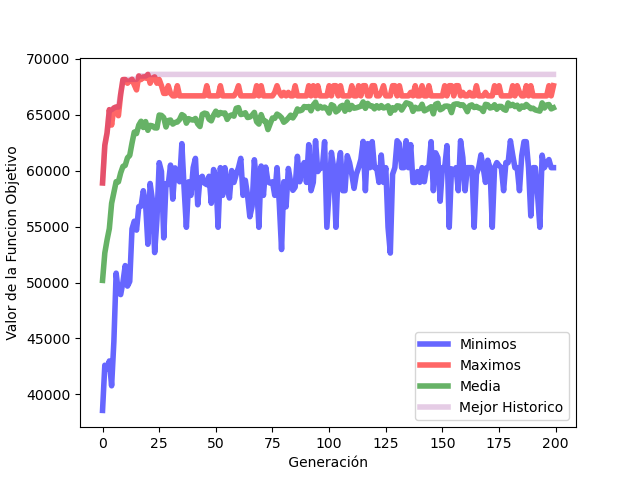
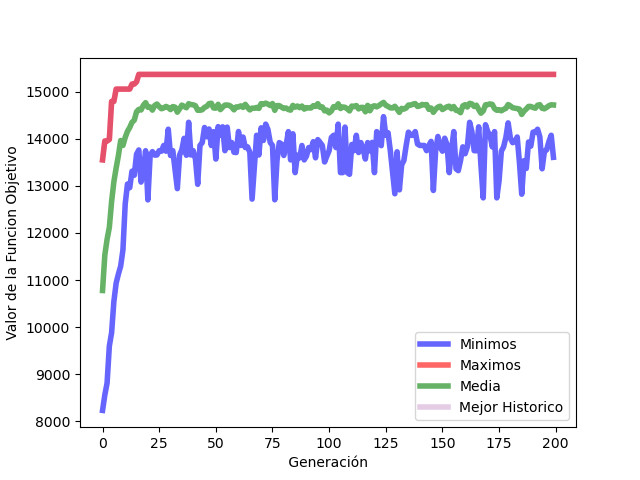
Corrección del valor de mutación

diff --git a/TP3/Resolucion/main.py b/TP3/Resolucion/main.py
@@ -210,7 +210,7 @@ def Genetico(provincias):
     cantMaximaGeneraciones = 200
     cantIndividuosEnPoblacion = 50
     p_crossover = 0.9
-    p_mutacion = 0.2
+    p_mutacion = 0.15
 
     # arreglos para las graficas.
     mostrarGraficas = True  # si no se quieren mostrar graficas de rendimiento poner en false.
@@ -288,6 +288,7 @@ def Genetico(provincias):
             mostrarGraficasEnPantalla(ejeX, minimos, maximos, medias, minHistorico)
 
         return datos.mapearRecorrido(MejorRecorrido + [MejorRecorrido[0]]), datos.CalculaDistanciaDeRecorrido(MejorRecorrido)
+
 # --------------------------- MAIN --------------------------- #
 
 

diff --git a/TP Investigación/genetico.py b/TP Investigación/genetico.py
@@ -299,7 +299,7 @@ def purgar(m):
 def mutacion(hijo, prob):
     # Inversion mutation con toda una fila elegida al azar.
     r = random.uniform(0, 1)
-    if(r <= 1):
+    if(r <= prob):
         # saco el numero de la fila
         numero = round(random.uniform(0, 9))
         fila = hijo[numero]
